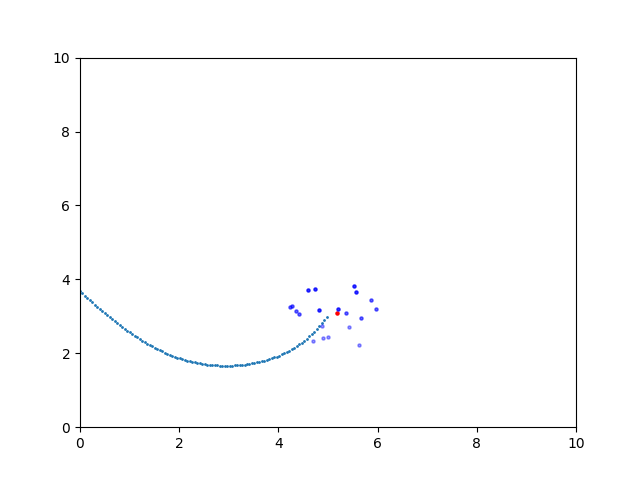
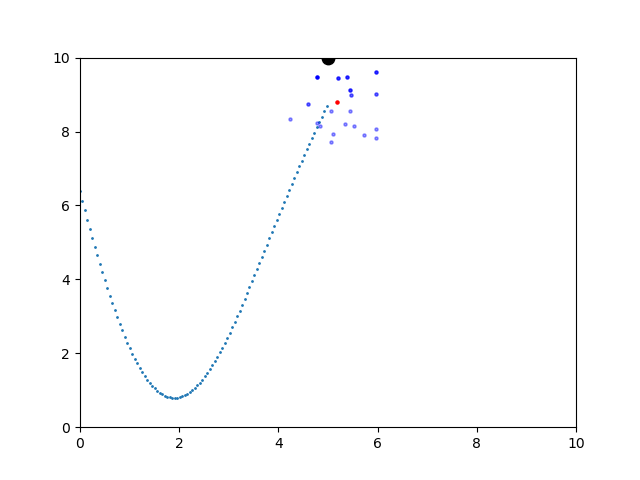
...

diff --git a/random walk simulation/random_walk.py b/random walk simulation/random_walk.py
@@ -52,6 +52,7 @@ lastx = path[-1][0]
 lasty = path[-1][1]
 LSTMpoint = np.array([lastx+0.2,lasty+0.1])
 plt.scatter(LSTMpoint[0],LSTMpoint[1],5,"red")
+plt.scatter(Xo,Yo,80,"black")
 
 count = 20
 while(count > 0):

diff --git a/random walk simulation/Reward function.md b/random walk simulation/Reward function.md
@@ -1,0 +1,56 @@
+# Reward function
+
+## Inputs
+
+#### 1. 上一步落点 (X~route~ , Y~route~) 以及在此之前的路径点集
+
+#### 2. LSTM预测点 (X~prediction~ , Y~prediction~)
+
+#### 3. RL对抗点 (X~adversarial~ , Y~adversarial~)
+
+
+
+## 全局变量
+
+#### 1. 步长用时 (每帧间隔时长) t
+
+#### 2. 出口位置 (X~out~ , Y~out~)
+
+#### 3. 步长取值范围 (对应速度快慢) [step_length~min~ , step_length~max~]
+
+
+
+## 对于对抗点的reward要素
+
+#### 1. 离出口距离 (change to the vector between the RLpoint and the exit)
+
+**1.1.** 上一步落点到对抗点的*vector~1~*在上一步落点到出口的*vector~2~*上的投影长度*d*
+$$
+d=\frac{\vec{V_1}·\vec{V_2}}{|\vec{V_2}|}=\frac{(X_a-X_r)·(X_o-X_r)+(Y_a-Y_r)·(Y_o-Y_r)}{\sqrt{(X_o-X_r)^2+(Y_o-Y_r)^2}}
+$$
+
+#### 2. 对抗LSTM的效果
+
+**2.1.** 上一步落点到对抗点的*vector~1~*与预测点到对抗点的*vector~3~* 之间的角度$\theta_0$
+$$
+\cos{\theta_0}=\frac{\vec{V_1}·\vec{V_3}}{|\vec{V_1}|·|\vec{V_3}|}=\frac{(X_a-X_r)·(X_p-X_r)+(Y_a-Y_r)·(Y_p-Y_r)}{\sqrt{(X_a-X_r)^2+(Y_a-Y_r)^2}·\sqrt{(X_p-X_r)^2+(Y_p-Y_r)^2}}
+$$
+**2.2.**  *vector~1~*和*vector~3~*的长度$|\vec{V_1}|$ , $|\vec{V_3}|$
+$$
+|\vec{V_1}|=\sqrt{(X_a-X_r)^2+(Y_a-Y_r)^2}
+$$
+
+$$
+|\vec{V_3}|=\sqrt{(X_p-X_r)^2+(Y_p-Y_r)^2}
+$$
+
+#### 3. 与实际route的拟合情况
+
+**3.1.** 对抗路线步长$|\vec{V_1}|$与上一步长$|\vec{V_0}|$之差 (对应速度差距、变化量)
+
+**3.2.** 对抗路线与前一步、两步路线角度变化
+
+
+
+
+
